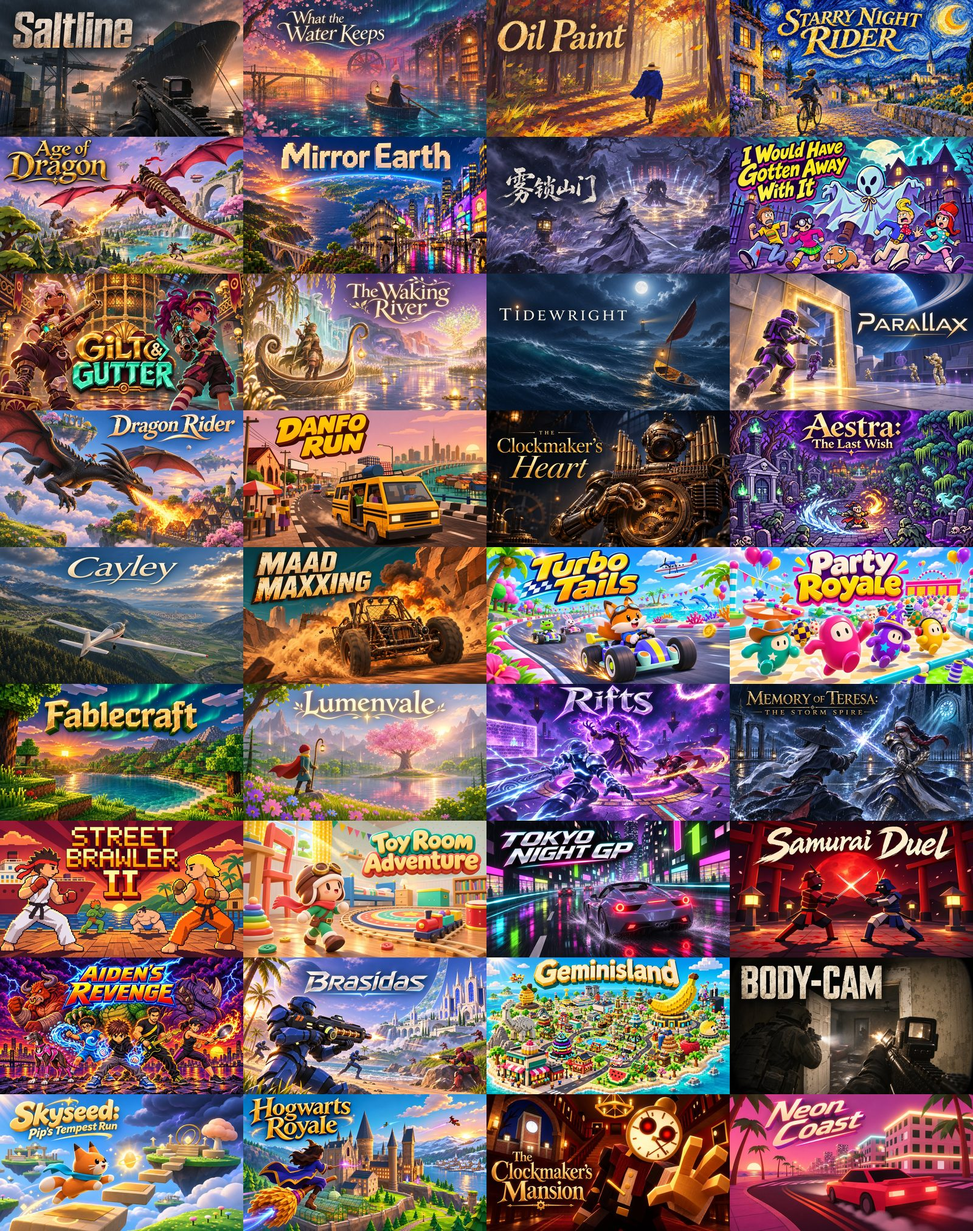
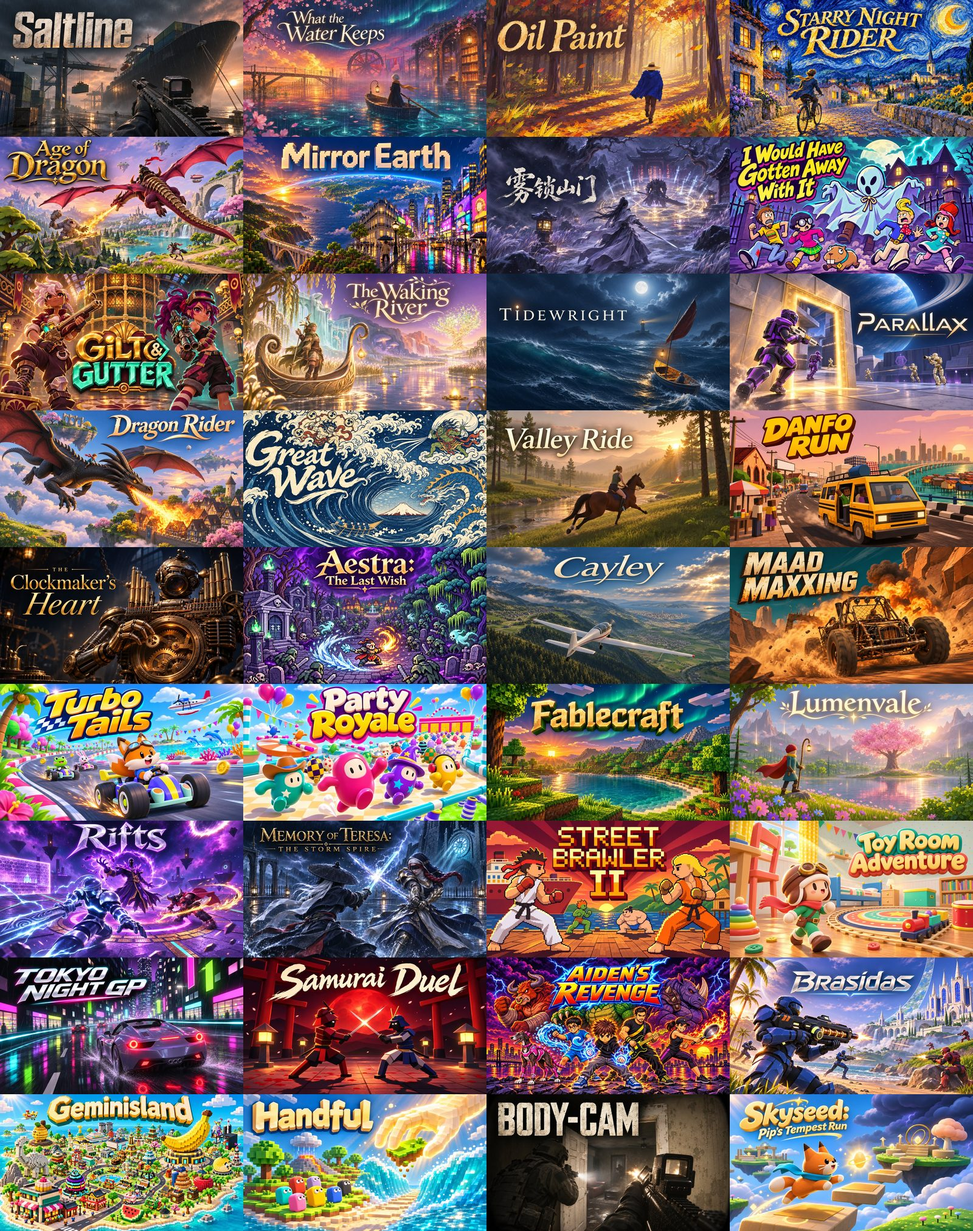
Add Great Wave, Handful: Island God Game and Valley Ride (Fable 5.2)

diff --git a/README.md b/README.md
@@ -1,12 +1,12 @@
 # Awesome Claude Fable Games
 
-[![Awesome](https://awesome.re/badge.svg)](https://awesome.re) ![Games](https://img.shields.io/badge/games-36-8a5cf6) ![Playable](https://img.shields.io/badge/playable_in_browser-25-22c55e) ![Prompts](https://img.shields.io/badge/verbatim_prompts-5-f59e0b) [![License: MIT](https://img.shields.io/badge/license-MIT-blue)](LICENSE)
+[![Awesome](https://awesome.re/badge.svg)](https://awesome.re) ![Games](https://img.shields.io/badge/games-39-8a5cf6) ![Playable](https://img.shields.io/badge/playable_in_browser-28-22c55e) ![Prompts](https://img.shields.io/badge/verbatim_prompts-5-f59e0b) [![License: MIT](https://img.shields.io/badge/license-MIT-blue)](LICENSE)
 
 <a href="https://vibegamer.io?utm_source=github&utm_medium=readme&utm_campaign=awesome-claude-fable-games"><img src="assets/mosaic.jpg" alt="A wall of covers for games made with Claude Fable 5.2: a wuxia mountain shrine, a Van Gogh bike ride, a desert car battle, a voxel Earth and more" width="100%"></a>
 
 A curated list of **games made with AI coding models**, most of them with Claude Fable 5.2, Anthropic's model released on November 9, 2026: browser games you can play right now, Unreal and Roblox projects, and one-prompt experiments. Each game names the model its maker says they used. Every game is credited to its maker and linked to the post where they shared it. Where the maker published the prompt, it's copied here word for word.
 
-**36 games · 25 playable in the browser · 5 with prompts** · Updated 2026-11-13
+**39 games · 28 playable in the browser · 5 with prompts** · Updated 2026-11-13
 
 Most games also have a page on **[vibegamer.io](https://vibegamer.io?utm_source=github&utm_medium=readme&utm_campaign=awesome-claude-fable-games)** with its trailer, screenshots and a play button.
 
@@ -39,6 +39,8 @@ Sorted by our score, then by likes on the original post.
 | <a href="#tidewright"><img src="assets/covers/tidewright.jpg" width="160" alt="Tidewright cover"></a> | **[Tidewright](#tidewright)** | [Felix Rieseberg](https://x.com/felixrieseberg) | Claude Fable 5.2 | [▶ Play URL](https://claude.ai/artifact/JTgyEMn7sn1q2riWrMb7D4) | [X](https://x.com/felixrieseberg/status/2119867839033352596) |  |  | 9/10 |
 | <a href="#parallax"><img src="assets/covers/parallax.jpg" width="160" alt="Parallax cover"></a> | **[Parallax](#parallax)** | [Sholto Douglas](https://x.com/_sholtodouglas) | Claude Fable 5.2 | video only | [X](https://x.com/_sholtodouglas/status/2119935331499925557) | 1.9K |  | 8.5/10 |
 | <a href="#dragon-rider"><img src="assets/covers/dragon-rider.jpg" width="160" alt="Dragon Rider cover"></a> | **[Dragon Rider](#dragon-rider)** | [Future Brian](https://x.com/ForwardEditor) | Claude Fable 5.2 | video only | [X](https://x.com/ForwardEditor/status/2119867743965163994) | 461 |  | 8.5/10 |
+| <a href="#great-wave"><img src="assets/covers/great-wave.jpg" width="160" alt="Great Wave cover"></a> | **[Great Wave](#great-wave)** | [Nil Ni](https://x.com/_nilni) | Claude Fable 5.2 | [▶ Play URL](https://www.aigameshare.com/games/great-wave-off-kanagawa) | [X](https://x.com/_nilni/status/2120797996610994355) | 7 |  | 8.3/10 |
+| <a href="#valley-ride"><img src="assets/covers/valley-ride.jpg" width="160" alt="Valley Ride cover"></a> | **[Valley Ride](#valley-ride)** | [Prasenjit](https://x.com/prasenx) | Claude Opus 5.5 and Claude Fable 5.2 | [▶ Play URL](https://starknightt.github.io/valley-ride/) | [X](https://x.com/prasenx/status/2120565971270459430) | 162 |  | 8.2/10 |
 | <a href="#danfo-run"><img src="assets/covers/danfo-run.jpg" width="160" alt="Danfo Run cover"></a> | **[Danfo Run](#danfo-run)** | [Eureka](https://x.com/eureka_seamless) | Claude (version not stated) | [▶ Play URL](https://danforun.com) | [X](https://x.com/eureka_seamless/status/2103938108668420286) | 36.8K |  | 8/10 |
 | <a href="#the-clockmakers-heart"><img src="assets/covers/the-clockmakers-heart.jpg" width="160" alt="The Clockmaker's Heart cover"></a> | **[The Clockmaker's Heart](#the-clockmakers-heart)** | [Felix Rieseberg](https://x.com/felixrieseberg) | Claude Fable 5.2 | [▶ Play URL](https://claude.ai/artifact/6MjtQjf4ee1ZZjEpafaEpa) | [X](https://x.com/felixrieseberg/status/2119867839033352596) | 283 |  | 8/10 |
 | <a href="#aestra-the-last-wish"><img src="assets/covers/aestra-the-last-wish.jpg" width="160" alt="Aestra: The Last Wish cover"></a> | **[Aestra: The Last Wish](#aestra-the-last-wish)** | [Mike Houser](https://x.com/M__Houser) | Claude Opus 5.5 (on Tesana) | [▶ Play URL](https://tesana.com/game/aestra-the-last-wish) | [X](https://x.com/M__Houser/status/2115438489995190285) | 281 |  | 8/10 |
@@ -57,6 +59,7 @@ Sorted by our score, then by likes on the original post.
 | <a href="#aidens-revenge"><img src="assets/covers/aidens-revenge.jpg" width="160" alt="Aiden's Revenge cover"></a> | **[Aiden's Revenge](#aidens-revenge)** | Lex Toumbourou | Claude Fable 5.2 | [▶ Play URL](https://aidens-revenge.pages.dev/) | [blog post](https://notesbylex.com/fable-5-2-one-shotted-my-nephews-dream-game) |  |  | 8/10 |
 | <a href="#brasidas"><img src="assets/covers/brasidas.jpg" width="160" alt="Brasidas cover"></a> | **[Brasidas](#brasidas)** | [Mike Houser](https://x.com/M__Houser) | Tesana (model not stated) | [▶ Play URL](https://tesana.com/game/brasidas) | [X](https://x.com/TesanaAI/status/2115049380382437886) |  |  | 8/10 |
 | <a href="#geminisland"><img src="assets/covers/geminisland.jpg" width="160" alt="Geminisland cover"></a> | **[Geminisland](#geminisland)** | [Google AI](https://x.com/GoogleAI) | Gemini 4 Hydrogen | [▶ Play URL](https://aistudio.google.com/apps/bundled/geminisland?showPreview=true&showAssistant=true&fullscreenApplet=true) | [X](https://x.com/GoogleAI/status/2120940684924403798) |  |  | 8/10 |
+| <a href="#handful-island-god-game"><img src="assets/covers/handful-island-god-game.jpg" width="160" alt="Handful: Island God Game cover"></a> | **[Handful: Island God Game](#handful-island-god-game)** | [Nil Ni](https://x.com/_nilni) | Claude Fable 5.2 | [▶ Play URL](https://www.aigameshare.com/games/island-god-game) | [X](https://x.com/_nilni/status/2120639452146250153) | 11 |  | 7.8/10 |
 | <a href="#body-cam"><img src="assets/covers/body-cam.jpg" width="160" alt="BODY-CAM cover"></a> | **[BODY-CAM](#body-cam)** | Juicer | Tesana (model not stated) | [▶ Play URL](https://tesana.com/game/body-cam) | [X](https://x.com/TesanaAI/status/2112043090043449620) |  |  | 7.8/10 |
 | <a href="#skyseed-pips-tempest-run"><img src="assets/covers/skyseed-pips-tempest-run.jpg" width="160" alt="Skyseed: Pip's Tempest Run cover"></a> | **[Skyseed: Pip's Tempest Run](#skyseed-pips-tempest-run)** | [Sahil Panhotra](https://x.com/SahilPanhotra) | Gemini 4 Hydrogen | [▶ Play URL](https://01a1b677-97ba-7006-a384-e83b3e5793db.arena.site/) | [X](https://x.com/SahilPanhotra/status/2119102771173769262) | 60 |  | 7.5/10 |
 | <a href="#hogwarts-royale"><img src="assets/covers/hogwarts-royale.jpg" width="160" alt="Hogwarts Royale cover"></a> | **[Hogwarts Royale](#hogwarts-royale)** | [Matt Shumer](https://x.com/mattshumer_) | Claude Fable 5.2 | [▶ Play URL](https://www.spawn.co/@mattshumer/hogwarts-royale) | [X](https://x.com/mattshumer_/status/2119872098306810226) | 307 | ✓ | 7/10 |
@@ -303,6 +306,43 @@ A dragon riding sim made with early access to Claude Fable 5.2: leap off floatin
 - **Tags:** Flight, Action, 3D
 
 <sub>Our score: 8.5/10 for visuals and polish.</sub>
+
+### Great Wave
+<a id="great-wave"></a>
+
+<a href="https://vibegamer.io/game/great-wave?utm_source=github&utm_medium=readme&utm_campaign=awesome-claude-fable-games"><img src="assets/covers/great-wave.jpg" alt="Great Wave: cover art" width="100%"></a>
+
+Surf Hokusai's Great Wave off Kanagawa: the woodblock print becomes a game where you row a little boat through the barrel, past the gods of wind and thunder, toward Mount Fuji. Made with Claude Fable 5.2.
+
+<p><img src="https://cdn.vibegamer.io/submissions/81d6f52f-7054-45db-aa69-0855ffa13a71-great-wave-shot-1.jpg" width="32%" alt="Great Wave gameplay screenshot"> <img src="https://cdn.vibegamer.io/submissions/eab5d8df-2c33-4694-a583-c6d915d6eb79-great-wave-shot-2.jpg" width="32%" alt="Great Wave gameplay screenshot"> <img src="https://cdn.vibegamer.io/submissions/69db6d07-be74-4cf9-880c-9acca4e99b3b-great-wave-shot-3.jpg" width="32%" alt="Great Wave gameplay screenshot"></p>
+
+- **Made by:** Nil Ni ([@_nilni](https://x.com/_nilni))
+- **Model:** Claude Fable 5.2
+- **Great Wave game URL:** https://www.aigameshare.com/games/great-wave-off-kanagawa
+- **Original post:** https://x.com/_nilni/status/2120797996610994355 (7 likes, checked November 13, 2026)
+- **Tags:** Arcade, Sports
+- **Great Wave on VibeGamer (trailer, screenshots, reviews):** [vibegamer.io/game/great-wave](https://vibegamer.io/game/great-wave?utm_source=github&utm_medium=readme&utm_campaign=awesome-claude-fable-games)
+
+<sub>Our score: 8.3/10 for visuals and polish.</sub>
+
+### Valley Ride
+<a id="valley-ride"></a>
+
+<a href="https://vibegamer.io/game/valley-ride?utm_source=github&utm_medium=readme&utm_campaign=awesome-claude-fable-games"><img src="assets/covers/valley-ride.jpg" alt="Valley Ride: cover art" width="100%"></a>
+
+A calm horse ride across a mountain valley to a campfire at sunset, in three.js and WebGPU. Built in two days with Claude Opus 5.5 and Fable 5.2, and open source.
+
+<p><img src="https://cdn.vibegamer.io/submissions/048e1bc9-3d71-4e33-9235-ee1318a2ed99-valley-ride-shot-1.jpg" width="32%" alt="Valley Ride gameplay screenshot"> <img src="https://cdn.vibegamer.io/submissions/30b646f7-4b5e-4045-bf3f-9546c5ba860a-valley-ride-shot-2.jpg" width="32%" alt="Valley Ride gameplay screenshot"> <img src="https://cdn.vibegamer.io/submissions/07654a5b-b199-4744-a3c9-e00f3a22ba3e-valley-ride-shot-3.jpg" width="32%" alt="Valley Ride gameplay screenshot"></p>
+
+- **Made by:** Prasenjit ([@prasenx](https://x.com/prasenx))
+- **Model:** Claude Opus 5.5 and Claude Fable 5.2
+- **Valley Ride game URL:** https://starknightt.github.io/valley-ride/
+- **Original post:** https://x.com/prasenx/status/2120565971270459430 (162 likes, checked November 13, 2026)
+- **Source:** open source, https://github.com/StarKnightt/valley-ride
+- **Tags:** Cosy, Adventure, 3D
+- **Valley Ride on VibeGamer (trailer, screenshots, reviews):** [vibegamer.io/game/valley-ride](https://vibegamer.io/game/valley-ride?utm_source=github&utm_medium=readme&utm_campaign=awesome-claude-fable-games)
+
+<sub>Our score: 8.2/10 for visuals and polish.</sub>
 
 ### Danfo Run
 <a id="danfo-run"></a>
@@ -652,6 +692,24 @@ Google's launch demo for Gemini 4 Hydrogen: a shared voxel island where one prom
 - **Geminisland on VibeGamer (trailer, screenshots, reviews):** [vibegamer.io/game/geminisland](https://vibegamer.io/game/geminisland?utm_source=github&utm_medium=readme&utm_campaign=awesome-claude-fable-games)
 
 <sub>Our score: 8/10 for visuals and polish.</sub>
+
+### Handful: Island God Game
+<a id="handful-island-god-game"></a>
+
+<a href="https://vibegamer.io/game/handful-island-god-game?utm_source=github&utm_medium=readme&utm_campaign=awesome-claude-fable-games"><img src="assets/covers/handful-island-god-game.jpg" alt="Handful: Island God Game: cover art" width="100%"></a>
+
+A 3D god game on an island of 8 million simulated voxels: with one giant hand and powers like parting the sea, rain and wind, lead a dozen little cube villagers to the light. Made with Claude Fable 5.2.
+
+<p><img src="https://cdn.vibegamer.io/submissions/15b3ecc1-4afb-4ba2-90de-586c991d63a4-handful-island-god-game-shot-1.jpg" width="32%" alt="Handful: Island God Game gameplay screenshot"> <img src="https://cdn.vibegamer.io/submissions/7d8b3d7b-52a3-47aa-a2c4-2bf4292e57c3-handful-island-god-game-shot-2.jpg" width="32%" alt="Handful: Island God Game gameplay screenshot"> <img src="https://cdn.vibegamer.io/submissions/20a1273c-8950-470b-9750-a3e9877ad50a-handful-island-god-game-shot-3.jpg" width="32%" alt="Handful: Island God Game gameplay screenshot"></p>
+
+- **Made by:** Nil Ni ([@_nilni](https://x.com/_nilni))
+- **Model:** Claude Fable 5.2
+- **Handful: Island God Game game URL:** https://www.aigameshare.com/games/island-god-game
+- **Original post:** https://x.com/_nilni/status/2120639452146250153 (11 likes, checked November 13, 2026)
+- **Tags:** Sandbox, Puzzle, 3D, Cosy
+- **Handful: Island God Game on VibeGamer (trailer, screenshots, reviews):** [vibegamer.io/game/handful-island-god-game](https://vibegamer.io/game/handful-island-god-game?utm_source=github&utm_medium=readme&utm_campaign=awesome-claude-fable-games)
+
+<sub>Our score: 7.8/10 for visuals and polish.</sub>
 
 ### BODY-CAM
 <a id="body-cam"></a>
